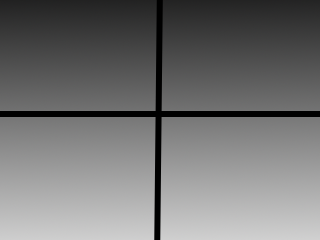
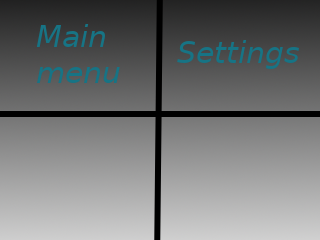
Settings menu added + other UI stuff

Changed region(s): [[0.5312, 0.175, 0.9375, 0.2917], [0.0938, 0.2625, 0.375, 0.35], [0.0938, 0.0875, 0.3438, 0.2042]]

diff --git a/Game.js b/Game.js
@@ -166,7 +166,15 @@ BasicGame.Game.prototype = {
 	                var choise = Math.floor(x / (menu.width/2)) + 2*Math.floor(y / (menu.height/2));
 	                
 	                // Display the choice
-	                choiseLabel.text = 'You press: ' + choisemap[choise];
+	                // choiseLabel.text = 'You press: ' + choisemap[choise];
+	                switch (choise){
+	                case 0:
+	                	this.state.start('MainMenu');
+	                	break;
+	                case 1:
+	                	settings = this.add.sprite(this.world.width/2, this.world.height/2, 'settings');
+	        	        settings.anchor.setTo(0.5, 0.5);
+	                }
 	            }
 	            else{
 	                // Remove the menu and the label
@@ -183,18 +191,7 @@ BasicGame.Game.prototype = {
     update: function () {
         // Honestly, just about anything could go here. It's YOUR game after
 		// all. Eat your heart out!
-    },
-
-    quitGame: function (pointer) {
-        // Here you should destroy anything you no longer need.
-        // Stop music, delete sprites, purge caches, free resources, all that
-		// good stuff.
-    	terminal.destroy();
-
-        // Then let's go back to the main menu.
-        this.state.start('MainMenu');
-
-    }
+    }, 
 };
 
 

diff --git a/Preloader.js b/Preloader.js
@@ -19,6 +19,7 @@ BasicGame.Preloader.prototype = {
 		this.load.image('playButton', 'assets/play-btn.png');
 		this.load.image('menu', 'assets/pause-menu.png');
 		this.load.image('pauseButton', 'assets/pause-btn.png');
+		this.load.image('settings', 'assets/settings-menu.png');
 	},
 
 	create : function() {
